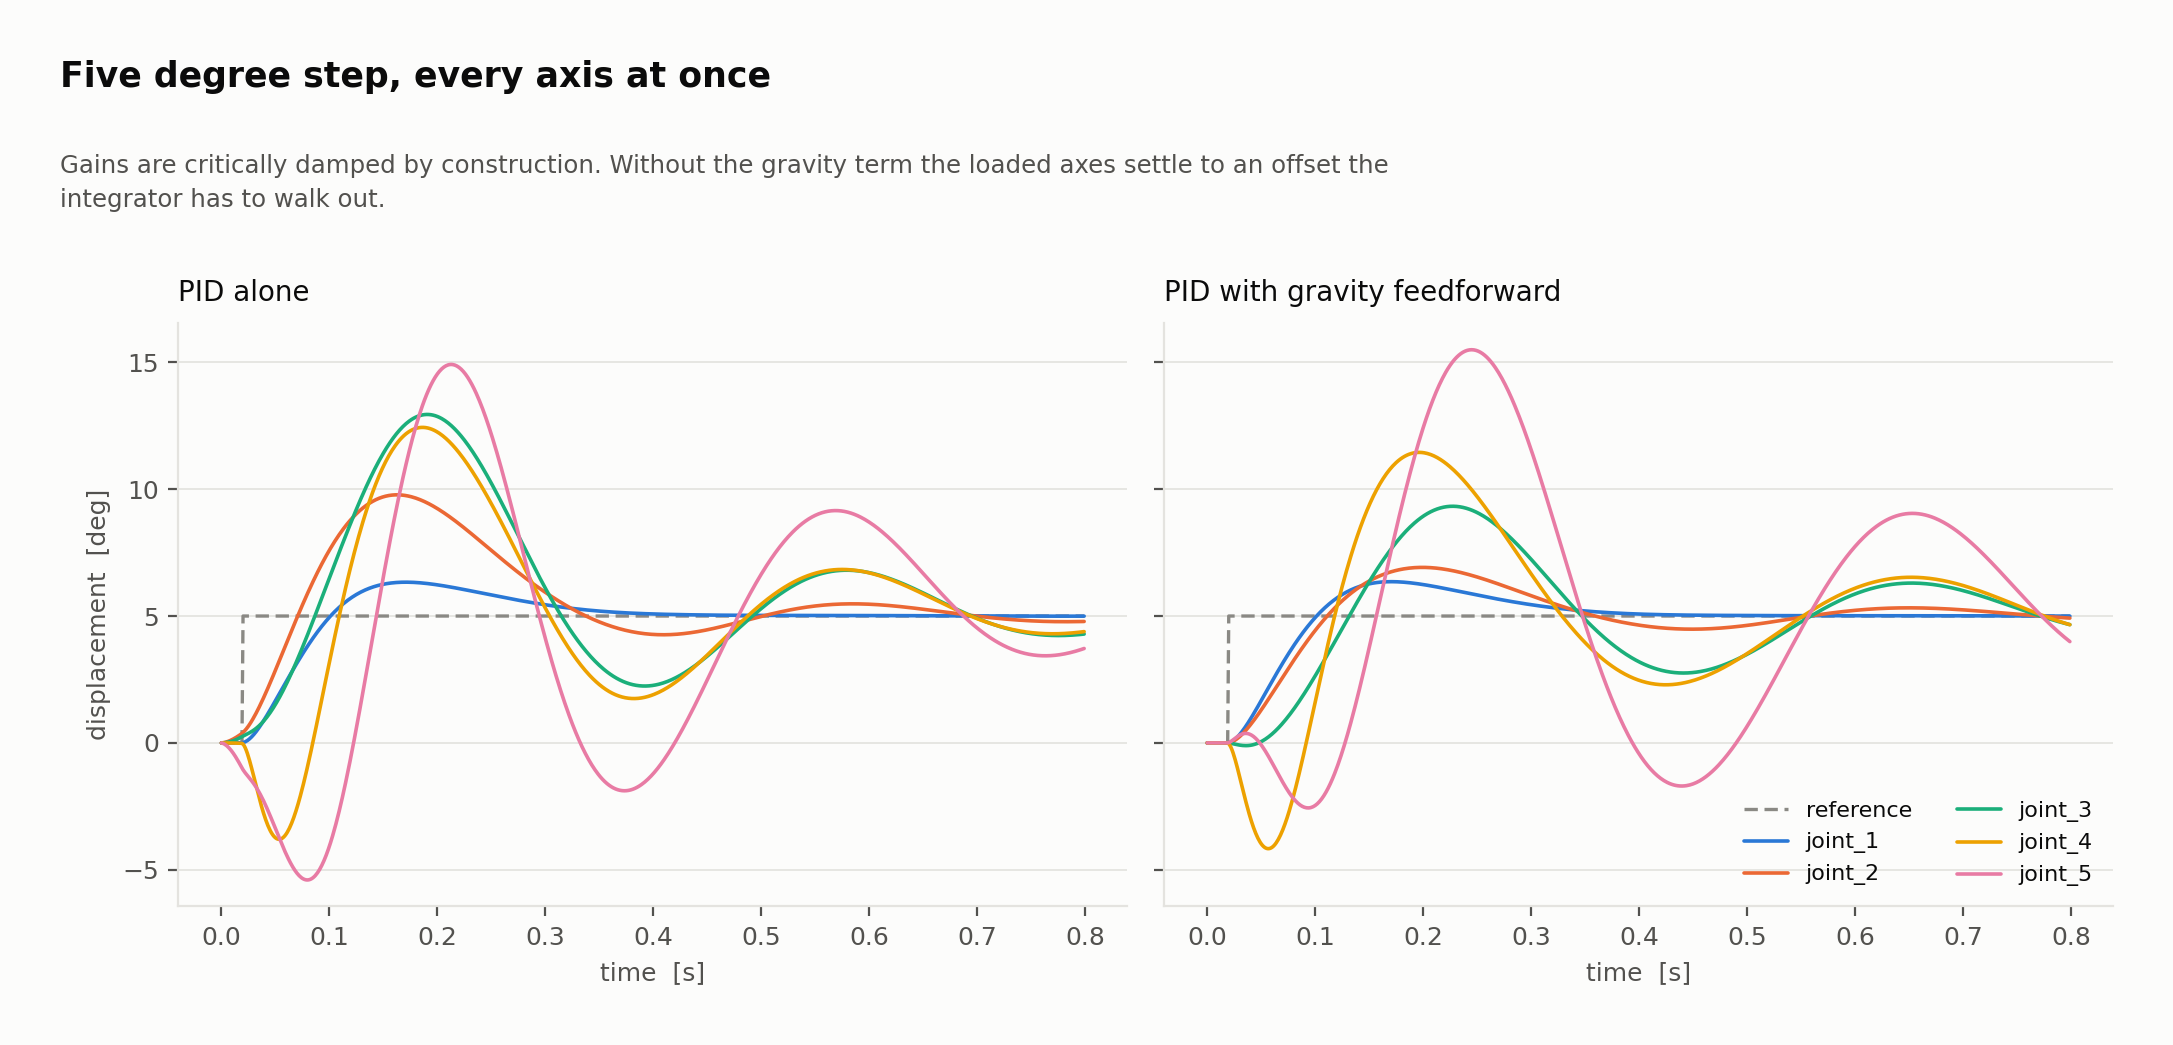
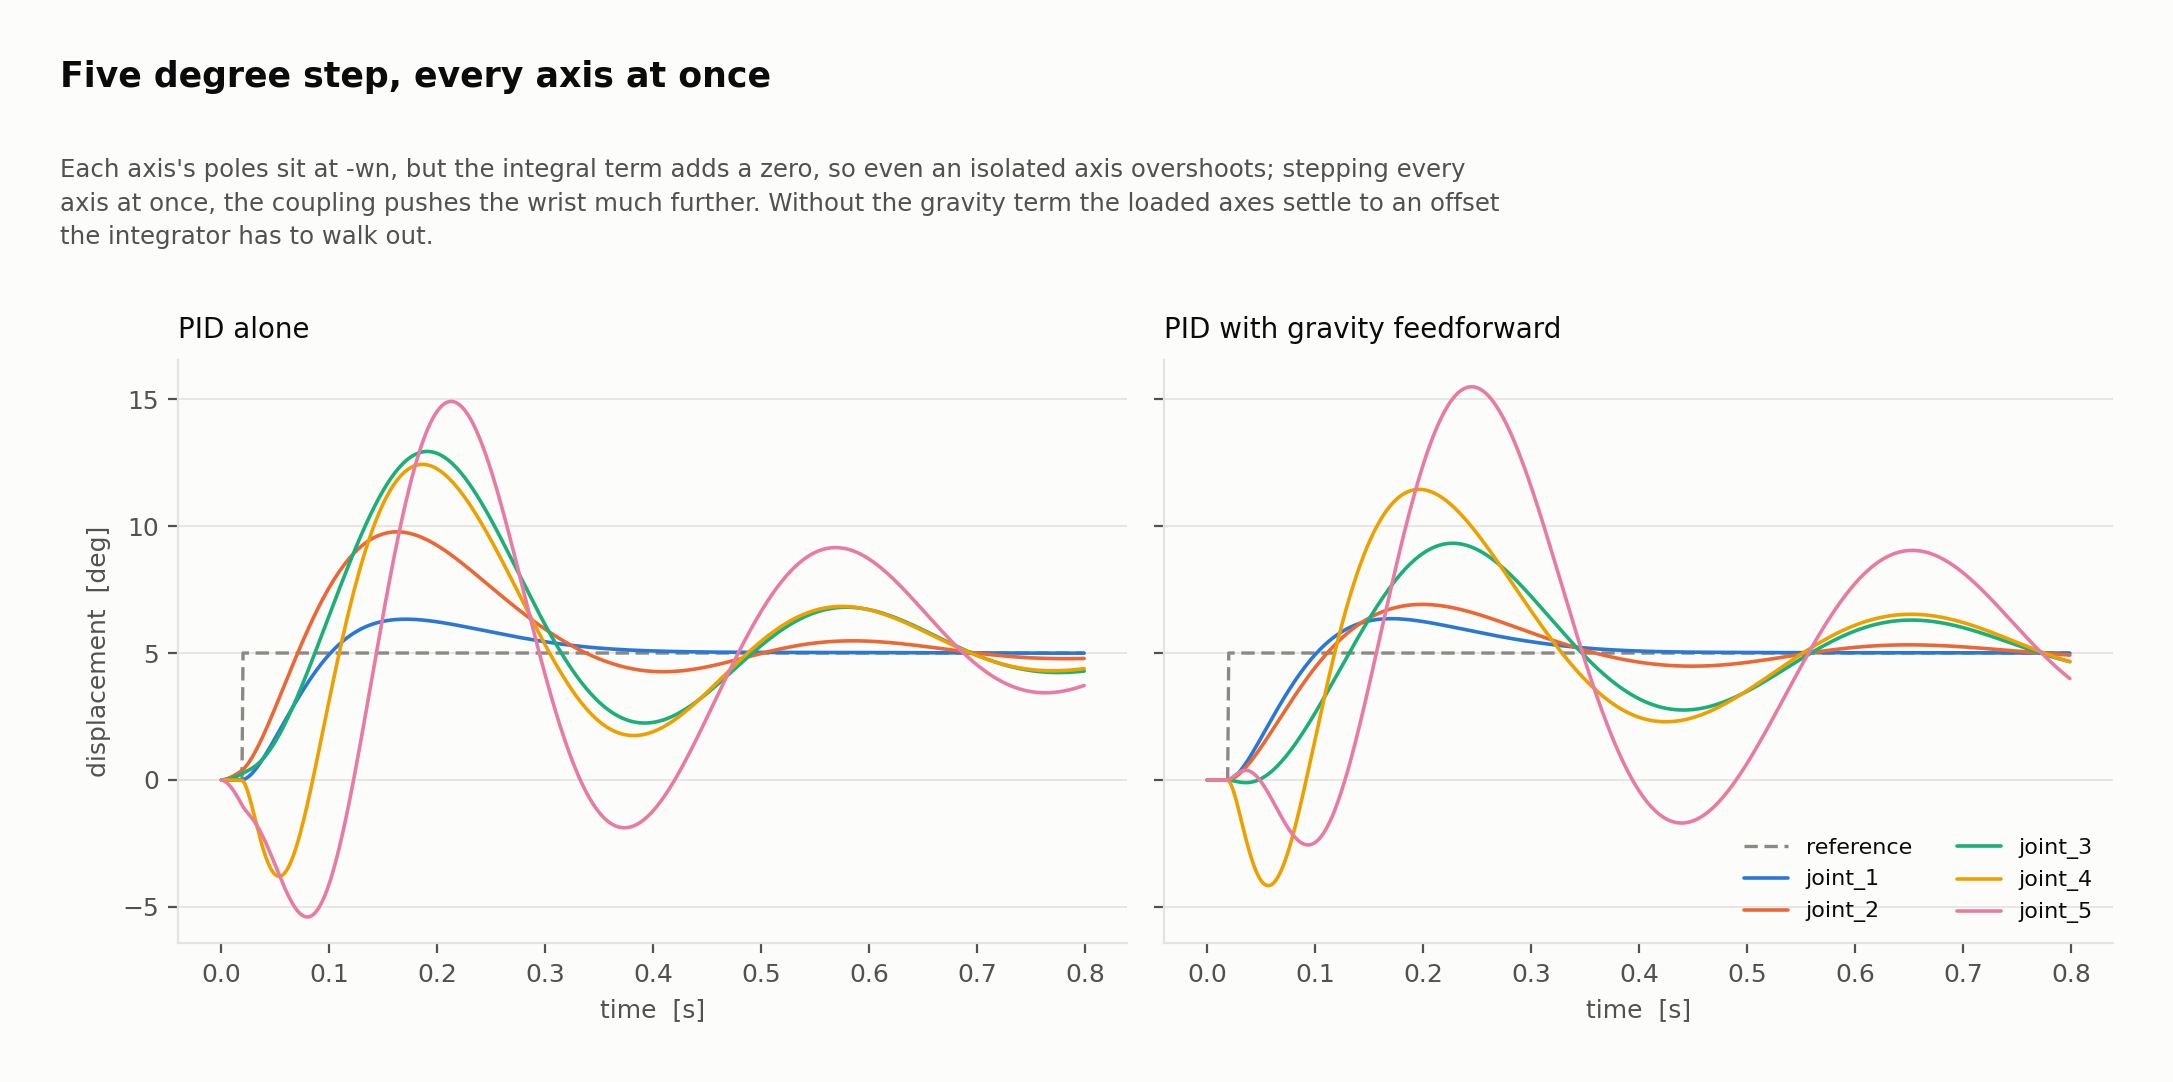
Correct the claim that pole placement makes the step response overshoot-free
control.md, analysis.py and the step figure's caption all said the tuning
has "no overshoot by construction" - the caption said "critically damped by
construction" above a plot in which joint_5 reaches 15 degrees on a 5 degree
step. Placing all three poles at -wn places the poles; it does not remove
overshoot. The integral term puts a zero in the closed loop. With the
derivative acting on the measured velocity, as simulate() implements it,

    T(s) = (Kp s + Ki) / (J s^3 + Kd s^2 + Kp s + Ki)
         = (3 wn^2 s + wn^3) / (s + wn)^3,

a zero at -wn/3, slower than the poles. A single isolated axis overshoots a
step by 24.9%, whatever its inertia, since J cancels.

The analysis now records it, both that single-axis figure and each joint's
overshoot on the full arm. Stepping every axis at once with gravity
feedforward, joint_1 - the least coupled - overshoots by 27%, close to the
single-axis value, and it grows with how hard each joint is pushed by the
others: 38, 86, 129 and 210% at joint_5. The step figure had been showing
the wrist coupling all along; its caption denied it. Every other published
value is unchanged by the re-run.

The velocity-lag section is made precise too. It called v/wn a steady-state
error. With an integral term it is not one: after a change of feed the
following error is e(t) = v t (1 + wn t) exp(-wn t), which peaks at 0.84
v/wn and is walked out over a few 1/wn. The drawing changes direction
[…]

diff --git a/docs/scripts/analysis.py b/docs/scripts/analysis.py
@@ -144,10 +144,13 @@ def tune(model, q_ref, wn=None, zeta=1.0):
 
         Kd = 3 J wn,   Kp = 3 J wn^2,   Ki = J wn^3
 
-    which has no overshoot by construction. An earlier version used the
-    second-order PD rule with an integral term bolted on as a fraction of Kp;
-    that put the integral time at 0.33 s against a loop time constant of
-    0.05 s, and the step response overshot by 30 to 75 percent.
+    which places the poles - it does not make the response free of overshoot.
+    The integral term adds a zero at -wn/3, and a step overshoots by the amount
+    single_axis_overshoot() computes; this docstring once claimed otherwise.
+    An earlier version used the second-order PD rule with an integral term
+    bolted on as a fraction of Kp; that put the integral time at 0.33 s against
+    a loop time constant of 0.05 s, and the step response overshot by 30 to 75
+    percent.
 
     J is the *effective* inertia, 1 / (M^-1)_ii, not the diagonal of M. For
     joints 2 and 3 the two differ by a factor of two: the diagonal says how
@@ -164,6 +167,26 @@ def tune(model, q_ref, wn=None, zeta=1.0):
     Kd = 3.0 * J * wn
     Ki = J * wn ** 3
     return Kp, Ki, Kd
+
+
+def single_axis_overshoot(wn=None):
+    """Step overshoot, in percent, of one isolated axis under this tuning.
+
+    With the poles at -wn and the derivative acting on the measured velocity,
+    as simulate() implements it, the closed loop is
+
+        T(s) = (Kp s + Ki) / (J s^3 + Kd s^2 + Kp s + Ki)
+             = (3 wn^2 s + wn^3) / (s + wn)^3
+
+    J cancels, so the answer is the same for every joint. The numerator's zero
+    at -wn/3, slower than the poles, is what makes it overshoot: placing the
+    poles does not by itself make a response free of overshoot.
+    """
+    from scipy import signal
+    wn = TUNE_WN if wn is None else wn
+    t, y = signal.step(([3 * wn ** 2, wn ** 3], np.poly([-wn] * 3)),
+                       T=np.linspace(0, 20 / wn, 20001))
+    return float((y.max() - 1) * 100)
 
 
 def simulate(model, Kp, Ki, Kd, q_ref_fn, t_end, dt=1.0 / 1000, q0=None,
@@ -268,6 +291,9 @@ def main():
             t_end=0.8, q0=q_start, gravity_ff=gff)
         out |= {f"step_T_{tag}": T, f"step_Q_{tag}": Qs,
                 f"step_QR_{tag}": QR, f"step_TAU_{tag}": TAU}
+        # How far past the step each axis goes, as a percentage of the step.
+        out[f"step_overshoot_{tag}"] = ((Qs - q_start).max(axis=0) - step) / step * 100
+    out["step_overshoot_single_axis"] = single_axis_overshoot()
 
     print("tracking the logo...")
     # follow one dot: long enough to show steady-state tracking and the
@@ -343,6 +369,9 @@ def main():
                                      & (kind[:-1] == rp.KIND_TRAVEL))
                               + (kind[0] != rp.KIND_TRAVEL)),
     }
+    summary["step_overshoot_single_axis_pct"] = out["step_overshoot_single_axis"]
+    summary["step_overshoot_ff_pct"] = out["step_overshoot_ff"].tolist()
+    summary["step_overshoot_noff_pct"] = out["step_overshoot_noff"].tolist()
     import dynamics
     summary["gravity_check_Nm"] = [dynamics.gravity_check(model, q) for q in dynamics.CHECK_POSES]
     tracer = {}

diff --git a/docs/scripts/check_docs.py b/docs/scripts/check_docs.py
@@ -108,6 +108,12 @@ def claims():
         ("tracer inner perimeter",
          {f'{s["tracer_annulus_perimeters_mm"][1]:.2f} mm'}, [MM + "toolpath.md"]),
         ("logo regions", {f'{s["tracer_logo_regions"]} regions'}, [MM + "toolpath.md"]),
+        ("single-axis step overshoot", {f'{s["step_overshoot_single_axis_pct"]:.0f}%'},
+         [MM + "control.md"]),
+        ("joint_1 step overshoot", {f'by {s["step_overshoot_ff_pct"][0]:.0f}%'},
+         [MM + "control.md"]),
+        ("joint_5 step overshoot", {f'by {s["step_overshoot_ff_pct"][4]:.0f}%'},
+         [MM + "control.md"]),
         ("drawing animation length", {f'{s["path_time_s"]:.0f} s compressed into 24'},
          [MM + "toolpath.md", "README.md"]),
         ("moveit plan waypoints", {f'{mv["plan"]["waypoints"]} waypoints over '

diff --git a/docs/scripts/figures.py b/docs/scripts/figures.py
@@ -308,8 +308,10 @@ def fig_step():
     axes[0].set_ylabel("displacement  [deg]")
     axes[1].legend(ncol=2, fontsize=8, loc="lower right")
     finish(fig, "08_step.png", "Five degree step, every axis at once",
-           "Gains are critically damped by construction. Without the gravity term the loaded "
-           "axes settle to an offset the integrator has to walk out.")
+           "Each axis's poles sit at -wn, but the integral term adds a zero, so even an isolated "
+           "axis overshoots; stepping every axis at once, the coupling pushes the wrist much "
+           "further. Without the gravity term the loaded axes settle to an offset the "
+           "integrator has to walk out.")
 
 
 # --- 9. tracking -------------------------------------------------------------

diff --git a/docs/mathematical-model/control.md b/docs/mathematical-model/control.md
@@ -120,7 +120,22 @@ Placing **all three poles at $-\omega_n$** gives $(s + \omega_n)^3$, and therefo
 
 $$K_p = 3 J \omega_n^2, \qquad K_d = 3 J \omega_n, \qquad K_i = J \omega_n^3$$
 
-which has no overshoot by construction.
+That places the poles. It does not make the response free of overshoot, and an
+earlier version of this page said it did. The integral term puts a **zero** in the
+closed loop: with the derivative acting on the measured velocity, as the
+simulations implement it,
+
+$$T(s) = \frac{K_p s + K_i}{J s^3 + K_d s^2 + K_p s + K_i}
+       = \frac{3\omega_n^2 s + \omega_n^3}{(s + \omega_n)^3},$$
+
+a zero at $-\omega_n/3$, slower than the poles. A single axis on its own overshoots
+a step by **25%**, whatever its inertia, because $J$ cancels. On the arm the
+coupling between joints adds to it. Stepping every axis at once with gravity
+feedforward, `joint_1` — the least coupled — overshoots by 27%, close to the
+single-axis figure, and `joint_5` by 210%: the more a joint is pushed by the
+others relative to its own inertia, the further it goes. The drawing never asks
+for a step, and feedforward carries most of what it does ask for, but a step is
+how a loop is judged, and the claim was wrong.
 
 **Two details that are not cosmetic.**
 
@@ -157,10 +172,19 @@ the gains recomputed themselves, and nothing had to be retuned by hand.
 
 ## 3. The velocity lag
 
-For a second order loop of bandwidth $\omega_n$ following a constant feed $v$,
-the steady state error is
+With the derivative acting on the measured velocity, the reference velocity is
+never fed through: the loop has to produce every change of velocity out of the
+error. After the feed changes by $v$, the following error is
 
-$$e_{\text{lag}} \approx v / \omega_n$$
+$$E(s) = v\,\frac{s + 3\omega_n}{(s + \omega_n)^3}, \qquad
+  e(t) = v\,t\,(1 + \omega_n t)\,e^{-\omega_n t},$$
+
+which peaks at $0.84\,v/\omega_n$ and is walked back out by the integral over a
+few $1/\omega_n$. It is not a steady-state error — an earlier version of this page
+called it one — but the drawing changes direction constantly, so the loop lives in
+that transient, and the error is of order
+
+$$e_{\text{lag}} \sim v / \omega_n .$$
 
 At 6 mm/s and 20 rad/s that is 300 µm — the whole line width. **The error does
 not depend on how well the loop is tuned, but on being asked to produce the
